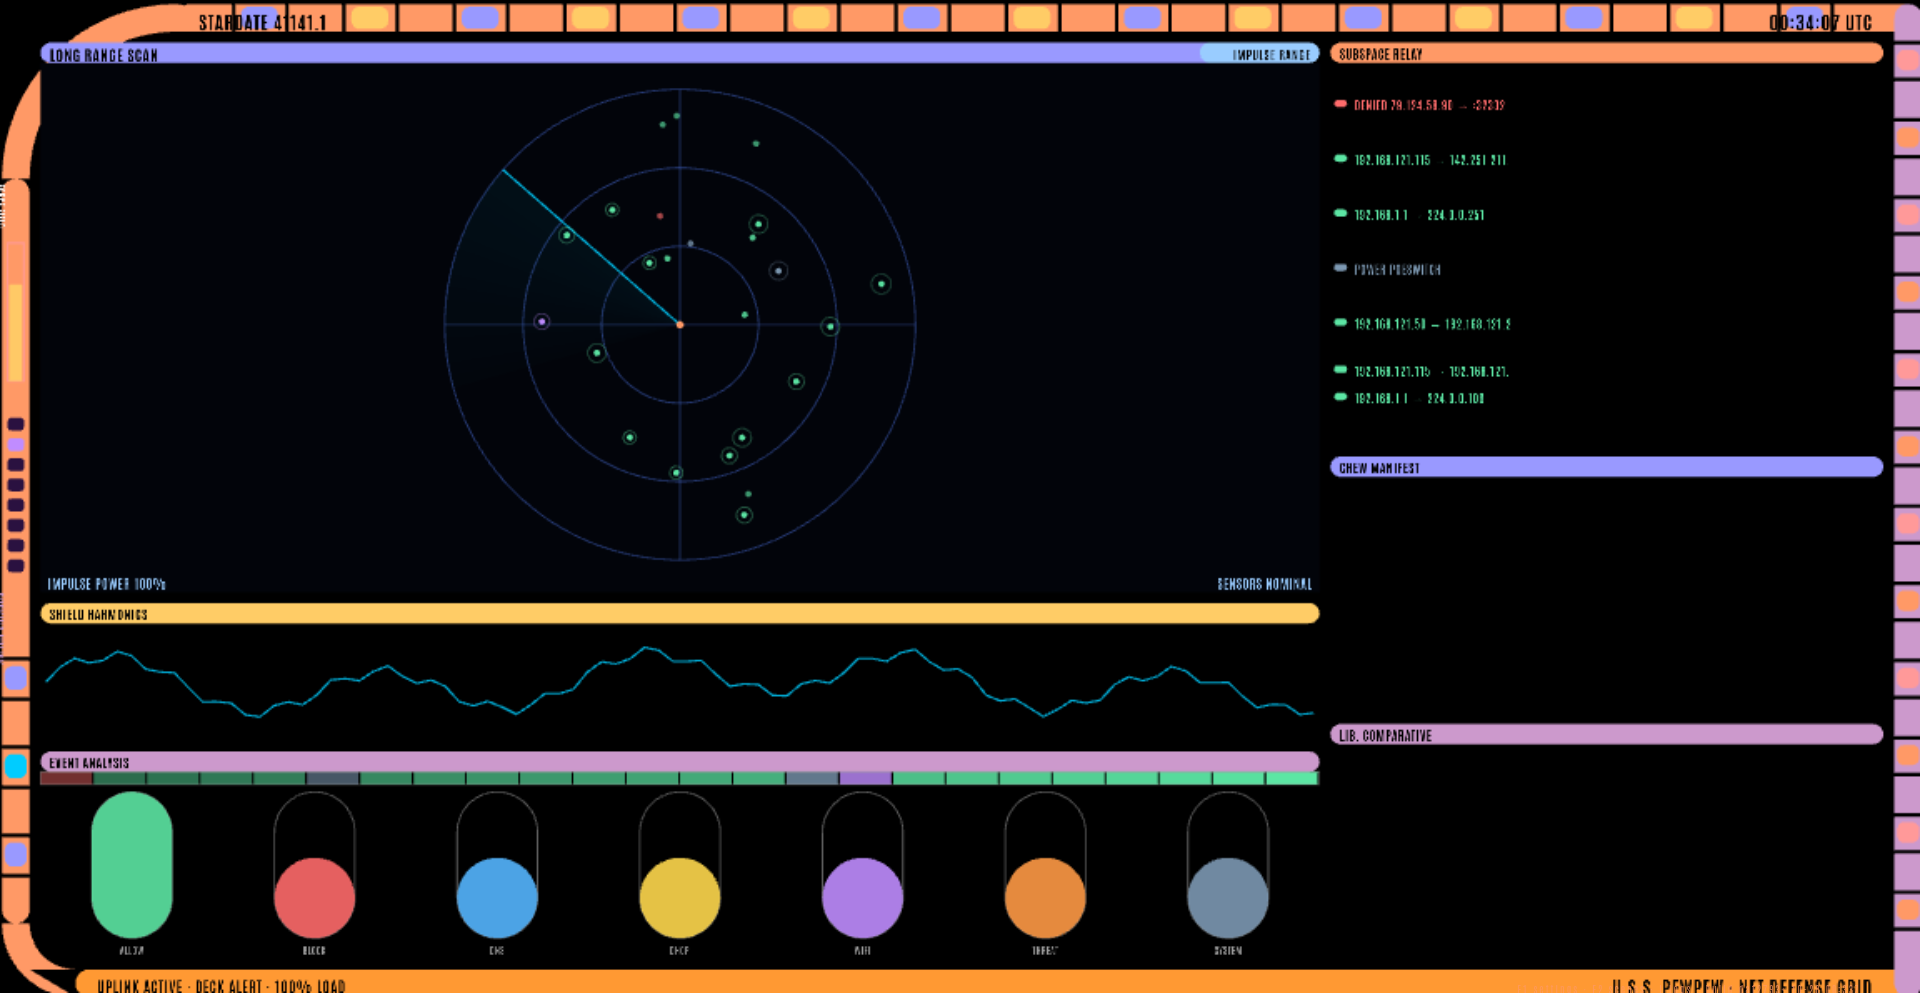
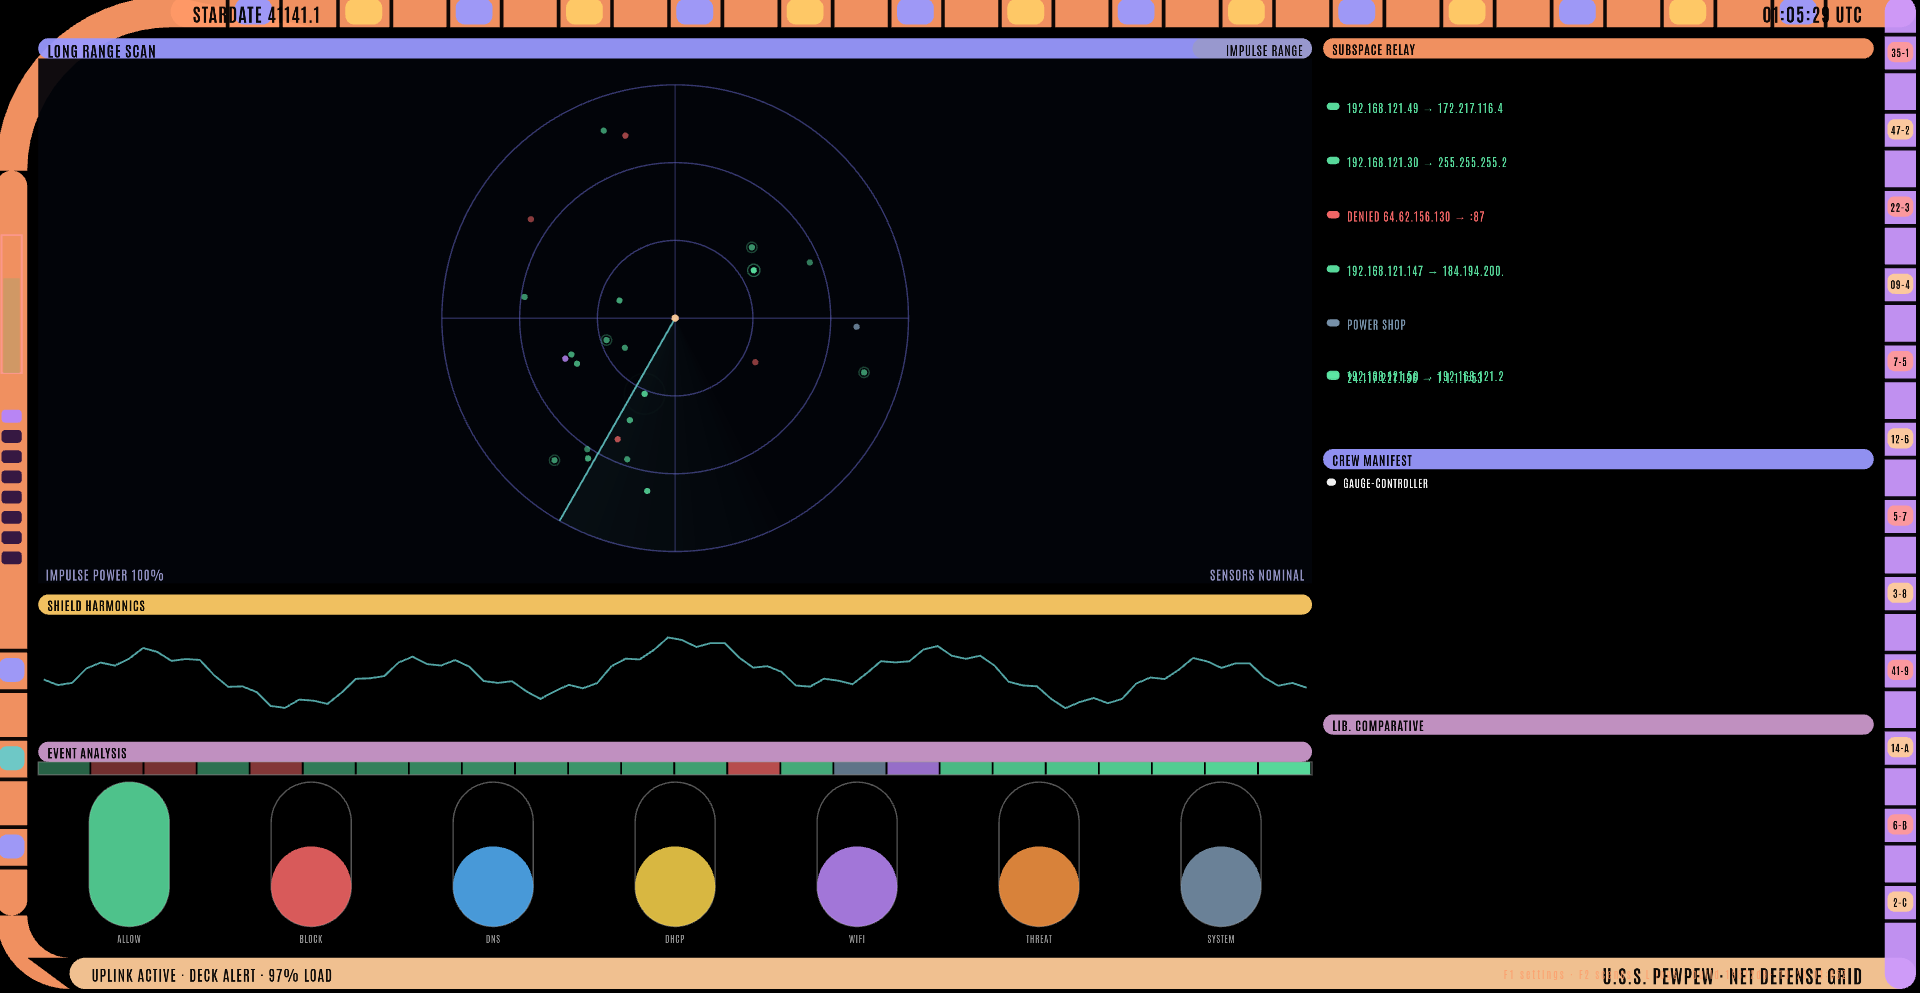
bridge: classic LCARS palette, no strobing, native-res vectors
- The alert is now a steady red frame with a steady RED ALERT banner;
  the text blink and the random full-screen power flicker are gone
  (the flicker was the seizure-inducing strobe on busy networks).
- Structure recoloured to the classic LCARS chart palette (orange
  frame, peach/tan/yellow/salmon/lilac/purple/blue/steel rails) and
  the rails thickened; the right rail carries the signature stack of
  black-text data pills.
- The canvas renders at native resolution: the adaptive downscale
  blurred the vectors and shifted the edge-flush chrome ~6px.

diff --git a/web/src/themes/bridge/console.ts b/web/src/themes/bridge/console.ts
@@ -28,6 +28,8 @@ interface Lay {
 
 const hex = (n: number) => '#' + n.toString(16).padStart(6, '0');
 
+const RAIL_TOKENS = ['35-1', '47-2', '22-3', '09-4', '7-5', '12-6', '5-7', '3-8', '41-9', '14-A', '6-B', '2-C'];
+
 export class Console {
   private chrome = new Graphics();
   private leftG = new Graphics();
@@ -46,6 +48,8 @@ export class Console {
   private crewT: Text[] = []; private crewC: Graphics[] = [];
   private libT: Text[] = []; private libC: Graphics[] = [];
   private hist: HistEv[] = [];
+  private railPills: Array<{ x: number; y: number; w: number; h: number }> = [];
+  private railT: Text[] = [];
   private lastFeed = -9;
   private crew: string[] = [];
   private lib: string[] = [];
@@ -102,12 +106,18 @@ export class Console {
       this.libC.push(cap); this.libT.push(txt);
     }
     this.alertT.visible = false;
+    for (let i = 0; i < 12; i++) {
+      const t = label('', 12, '#000000', 700, 'center');
+      t.visible = false;
+      this.railT.push(t);
+      this.texts.addChild(t);
+    }
   }
 
   // ── layout ───────────────────────────────────────────────────────────────
   resize(W: number, H: number): void {
     const u = Math.max(0.5, Math.min(2.4, Math.min(W / 1920, H / 1080)));
-    const bw = 30 * u;
+    const bw = 34 * u;
     const er = 190 * u, er2 = 80 * u;
     const g0 = 12 * u;
     const x0 = bw + g0, y0 = bw + g0, x1 = W - bw - g0, y1 = H - bw - g0;
@@ -132,9 +142,9 @@ export class Console {
     const { W, H, u, bw, er, er2 } = this.lay;
     const g = this.chrome;
     g.clear();
-    const c1 = this.alertOn ? L.red : L.peach;
-    const c2 = this.alertOn ? L.dkred : L.orange;
-    const c3 = this.alertOn ? L.dkred : L.lilac;
+    const c1 = this.alertOn ? L.red : L.orange;
+    const c2 = this.alertOn ? L.dkred : L.peach;
+    const c3 = this.alertOn ? L.dkred : L.purple;
 
     hbar(g, er, 0, W - er, bw, c1);
     elbow(g, er, er, er, er - bw, c1);
@@ -155,12 +165,15 @@ export class Console {
     }
     for (let x = er + 60 * u, n = 0; x < W - bw - 40 * u; x += 120 * u, n++) {
       notch(x, 0, 4 * u, bw);
-      pip(g, x + 10 * u, 3 * u, 40 * u, bw - 6 * u, n % 2 ? L.tan : L.blue);
+      pip(g, x + 10 * u, 3 * u, 40 * u, bw - 6 * u, n % 2 ? L.yellow : L.blue);
       notch(x + 58 * u, 0, 4 * u, bw);
     }
+    this.railPills = [];
     for (let y = 40 * u, n = 0; y < H - 40 * u; y += 84 * u, n++) {
       notch(W - bw, y, bw, 4 * u);
-      pip(g, W - bw + 3 * u, y + 10 * u, bw - 6 * u, 22 * u, n % 2 ? L.peach : L.salmon);
+      const px = W - bw + 3 * u, py = y + 10 * u, pw = bw - 6 * u, ph = 22 * u;
+      pip(g, px, py, pw, ph, n % 2 ? L.peach : L.salmon);
+      this.railPills.push({ x: px, y: py, w: pw, h: ph });
       notch(W - bw, y + 40 * u, bw, 4 * u);
     }
 
@@ -169,9 +182,9 @@ export class Console {
     const hh = 22 * u;
     hbar(g, viewer.x, viewer.y, viewer.w, hh, L.blue);
     hbar(g, viewer.x + viewer.w - 130 * u, viewer.y, 130 * u, hh, L.paleblue);
-    hbar(g, wave.x, wave.y, wave.w, hh, L.tan);
+    hbar(g, wave.x, wave.y, wave.w, hh, L.yellow);
     hbar(g, bank.x, bank.y, bank.w, hh, L.lilac);
-    hbar(g, feed.x, feed.y, feed.w, hh, L.peach);
+    hbar(g, feed.x, feed.y, feed.w, hh, L.orange);
     hbar(g, crew.x, crew.y, crew.w, hh, L.blue);
     hbar(g, lib.x, lib.y, lib.w, hh, L.lilac);
     g.rect(viewer.x, viewer.y + hh, viewer.w, viewer.h - hh).fill('#02040a');
@@ -216,6 +229,15 @@ export class Console {
     this.hPorts.rotation = Math.PI / 2;
     this.hPorts.anchor.set(0, 0);
     this.hPorts.position.set(6 * u, er + 70 * u + 190 * u + 8 * 22 * u + 14 * u);
+    this.railT.forEach((t, i) => {
+      const p = this.railPills[i];
+      t.visible = !!p;
+      if (p) {
+        t.scale.set(k * 0.9);
+        t.text = RAIL_TOKENS[i % RAIL_TOKENS.length];
+        t.position.set(p.x + p.w / 2, p.y + 4 * u);
+      }
+    });
     const bwid = bank.w / KINDS.length;
     KINDS.forEach((_, i) => {
       const t = this.kindT[i];
@@ -283,19 +305,19 @@ export class Console {
     this.activity = activity;
     const u = this.lay.u;
 
-    // red alert strobe: the whole frame flips red twice a second
+    // red alert: the frame goes red and stays red - no strobing, no flicker.
     const alert = t < this.alertUntil && this.settings.bAlert !== false;
     if (alert !== this.alertOn) {
       this.alertOn = alert;
       this.buildChrome();
       this.placeTexts();
     }
-    this.alertT.visible = alert && Math.sin(t * 12) > -0.2;
+    this.alertT.visible = alert;
 
-    // power dropout flicker (system)
+    // power dropout (system): one smooth dip, no random flicker
     if (this.powerT < 1.2) {
       this.powerT += dt;
-      this.layer.alpha = 0.45 + 0.55 * (Math.random() < 0.3 ? 0.5 : 1);
+      this.layer.alpha = 0.55 + 0.45 * Math.min(1, this.powerT / 1.2);
     } else this.layer.alpha = 1;
 
     this.ffFlash = Math.max(0, this.ffFlash - dt * 1.6);
@@ -441,7 +463,7 @@ export class Console {
       });
     };
     fill(this.lay.crew, this.crew, this.crewT, this.crewC, 0xffffff);
-    fill(this.lay.lib, this.lib, this.libT, this.libC, 0x99ccff);
+    fill(this.lay.lib, this.lib, this.libT, this.libC, 0x9999cc);
   }
 
   private drawLeftColumn(t: number, u: number): void {

diff --git a/web/src/themes/bridge/index.ts b/web/src/themes/bridge/index.ts
@@ -40,7 +40,9 @@ async function create(host: ThemeHost<typeof BRIDGE_DEFAULTS>, init: RendererIni
     background: '#000000',
     antialias: true,
     powerPreference: init.powerPref === 'default' ? undefined : init.powerPref,
-    resolution: init.resolution,
+    // pure vector: adaptive downscaling only blurs it (and shifts the
+    // edge-flush chrome), so the canvas always renders at native resolution
+    resolution: 1,
     autoDensity: true,
     autoStart: false,
     sharedTicker: false,
@@ -128,7 +130,7 @@ async function create(host: ThemeHost<typeof BRIDGE_DEFAULTS>, init: RendererIni
     frame,
     applyBudgets() {},
     settingsChanged() {},
-    setResolution(scale) { if (app.renderer.resolution !== scale) app.renderer.resolution = scale; },
+    setResolution() {}, // vector at native res; runtime rescaling shifts the chrome
     stats: () => ({ chrome: 'vector', sweep: settings.bSweep ? 'on' : 'off' }),
     diag: () => ({ app, console: console_ }),
   };

diff --git a/web/src/themes/bridge/sprites.ts b/web/src/themes/bridge/sprites.ts
@@ -10,11 +10,13 @@ import { Graphics, Text, type TextStyleFontWeight } from 'pixi.js';
 /** The canonical LCARS palette (structure), plus the fixed event law (data). */
 export const L = {
   black: '#000000',
-  peach: '#FF9966', orange: '#FF9933', salmon: '#FF9999', tan: '#FFCC66',
-  lilac: '#CC99CC', purple: '#AA88FF', blue: '#9999FF', deepblue: '#4466CC',
-  cyan: '#00CCFF', paleblue: '#99CCFF', yellow: '#FFFF99', green: '#66FF99',
-  red: '#FF3333', dkred: '#CC4444', brown: '#CC6633', gray: '#999999',
-  white: '#FFFFFF',
+  // The classic LCARS chart colours: warm, saturated, flat on black.
+  red: '#CC6666', dkred: '#993333',
+  orange: '#FF9966', peach: '#FFCC99', tan: '#CC9966', yellow: '#FFCC66',
+  salmon: '#FF9999', lilac: '#CC99CC', purple: '#CC99FF',
+  blue: '#9999FF', deepblue: '#6666CC', paleblue: '#9999CC',
+  cyan: '#66CCCC', green: '#99FF99',
+  gray: '#999999', white: '#FFFFFF',
 };
 
 /** The event law, identical in every scene. */
